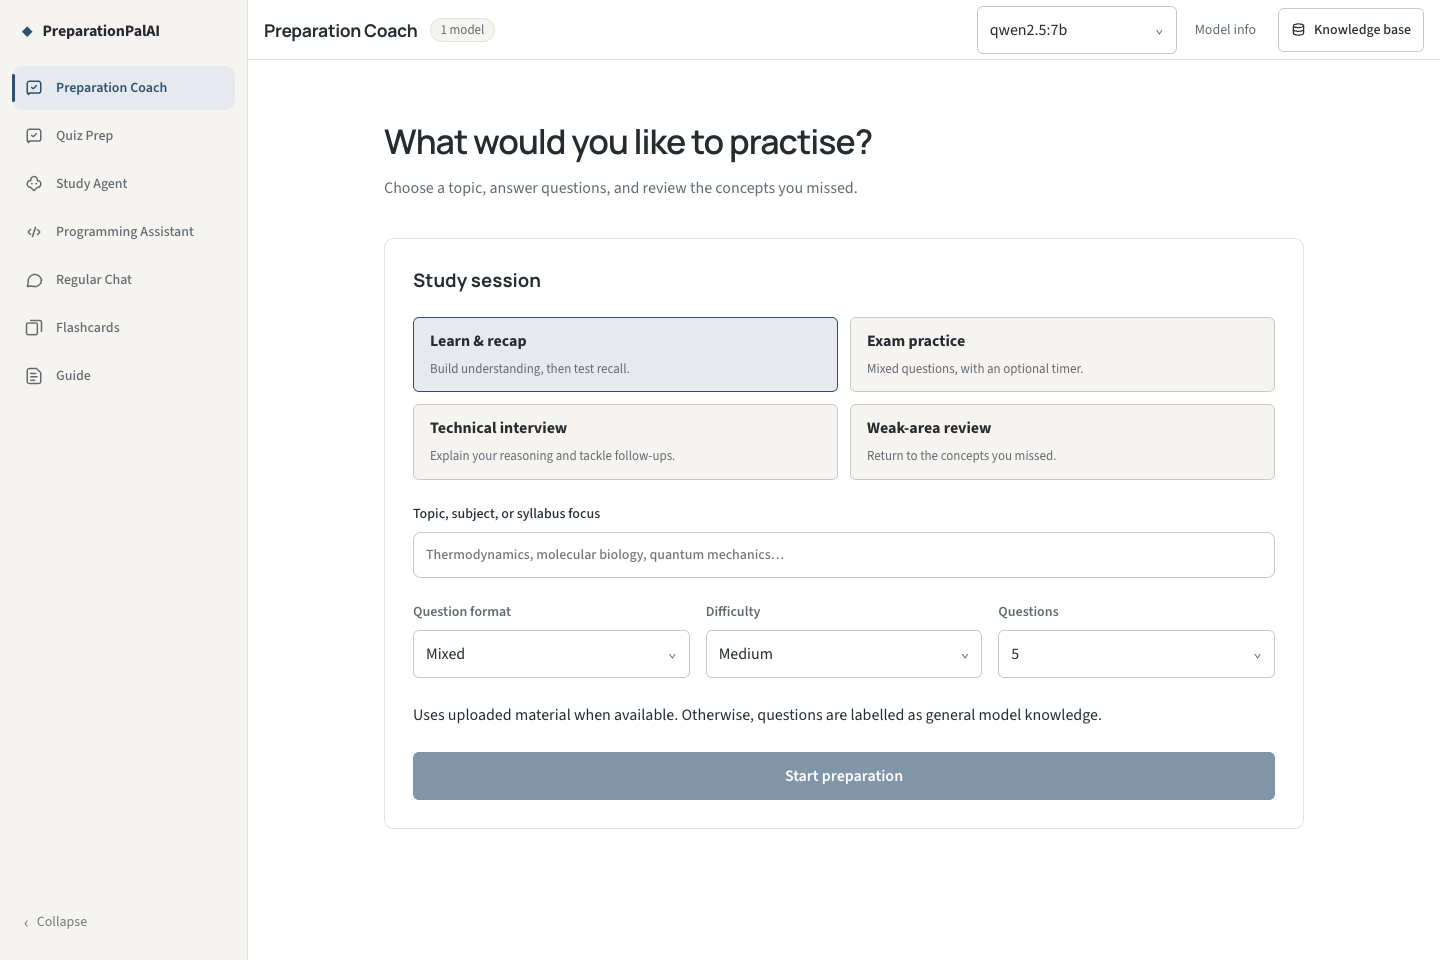
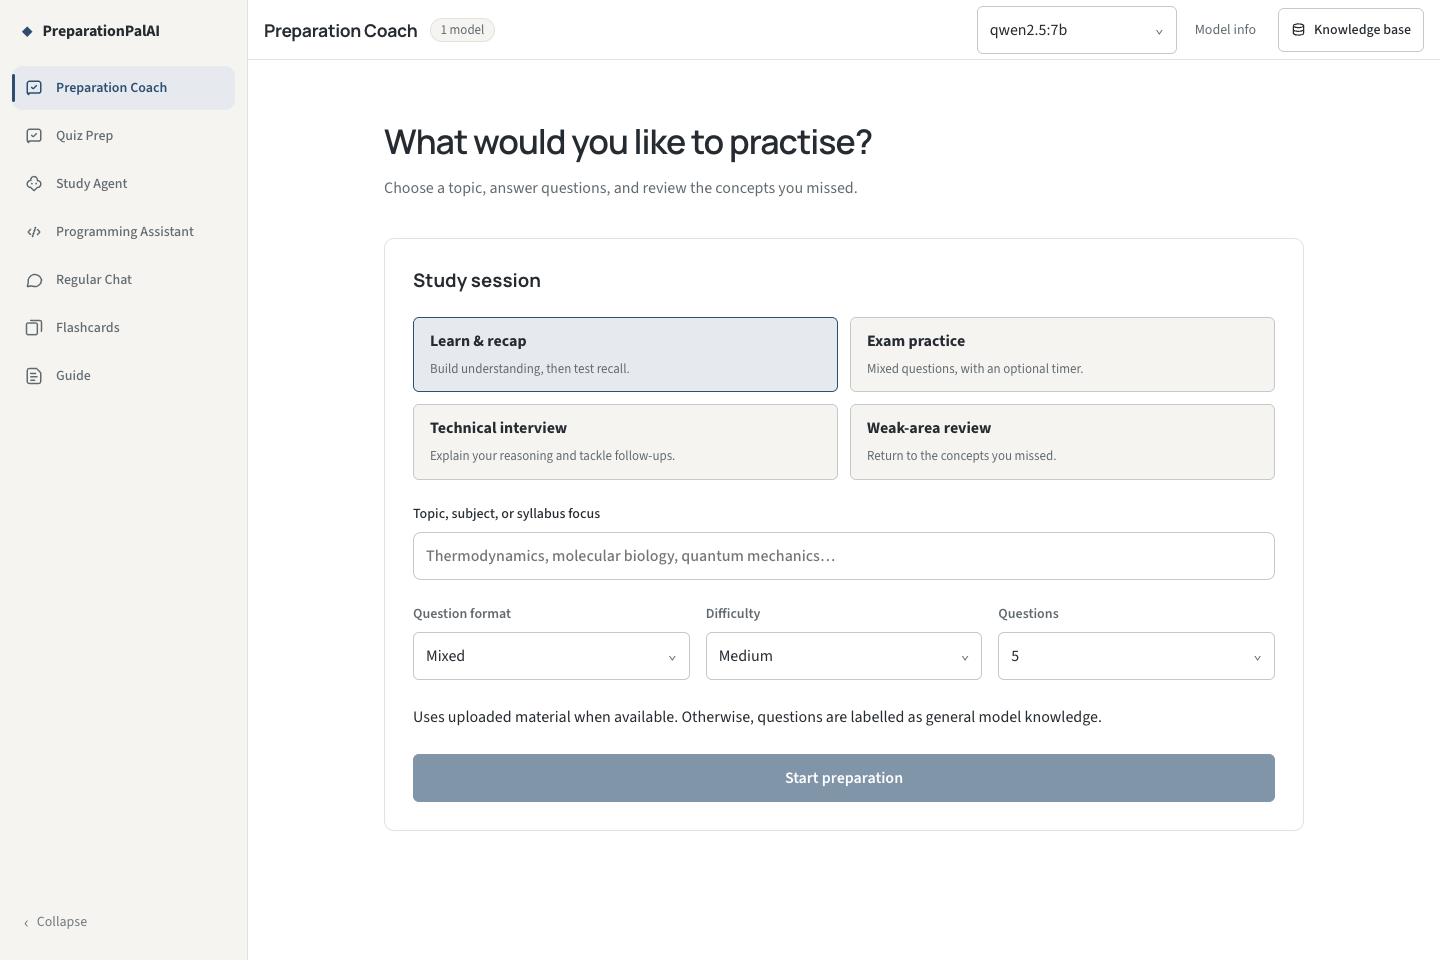
fix(ui): preserve dropdown keyboard state during timer updates [frontend public assets; frontend regression tests]
History reorganization: part 2/2 of original commit ba7db225eecaecd7dde54b37354d6555b6407452.
Changes: frontend public assets; frontend regression tests.

diff --git a/frontend/src/__tests__/Select.test.tsx b/frontend/src/__tests__/Select.test.tsx
@@ -26,6 +26,15 @@ function Harness({ onChange }: { onChange?: (v: string) => void }) {
 }
 
 describe("Select", () => {
+  it("keeps keyboard navigation when a parent refreshes option objects", async () => {
+    const onChange = vi.fn();
+    const { rerender } = render(<Select ariaLabel="Letter" value="a" options={OPTS} onChange={onChange} />);
+    await userEvent.click(screen.getByRole('button', { name: 'Letter' }));
+    await userEvent.keyboard('{ArrowDown}');
+    rerender(<Select ariaLabel="Letter" value="a" options={OPTS.map(option => ({ ...option }))} onChange={onChange} />);
+    await userEvent.keyboard('{Enter}');
+    expect(onChange).toHaveBeenCalledWith('b');
+  });
   it("renders the selected label on the trigger", () => {
     render(<Harness />);
     expect(screen.getByRole("button", { name: "Letter" })).toHaveTextContent("Alpha");
